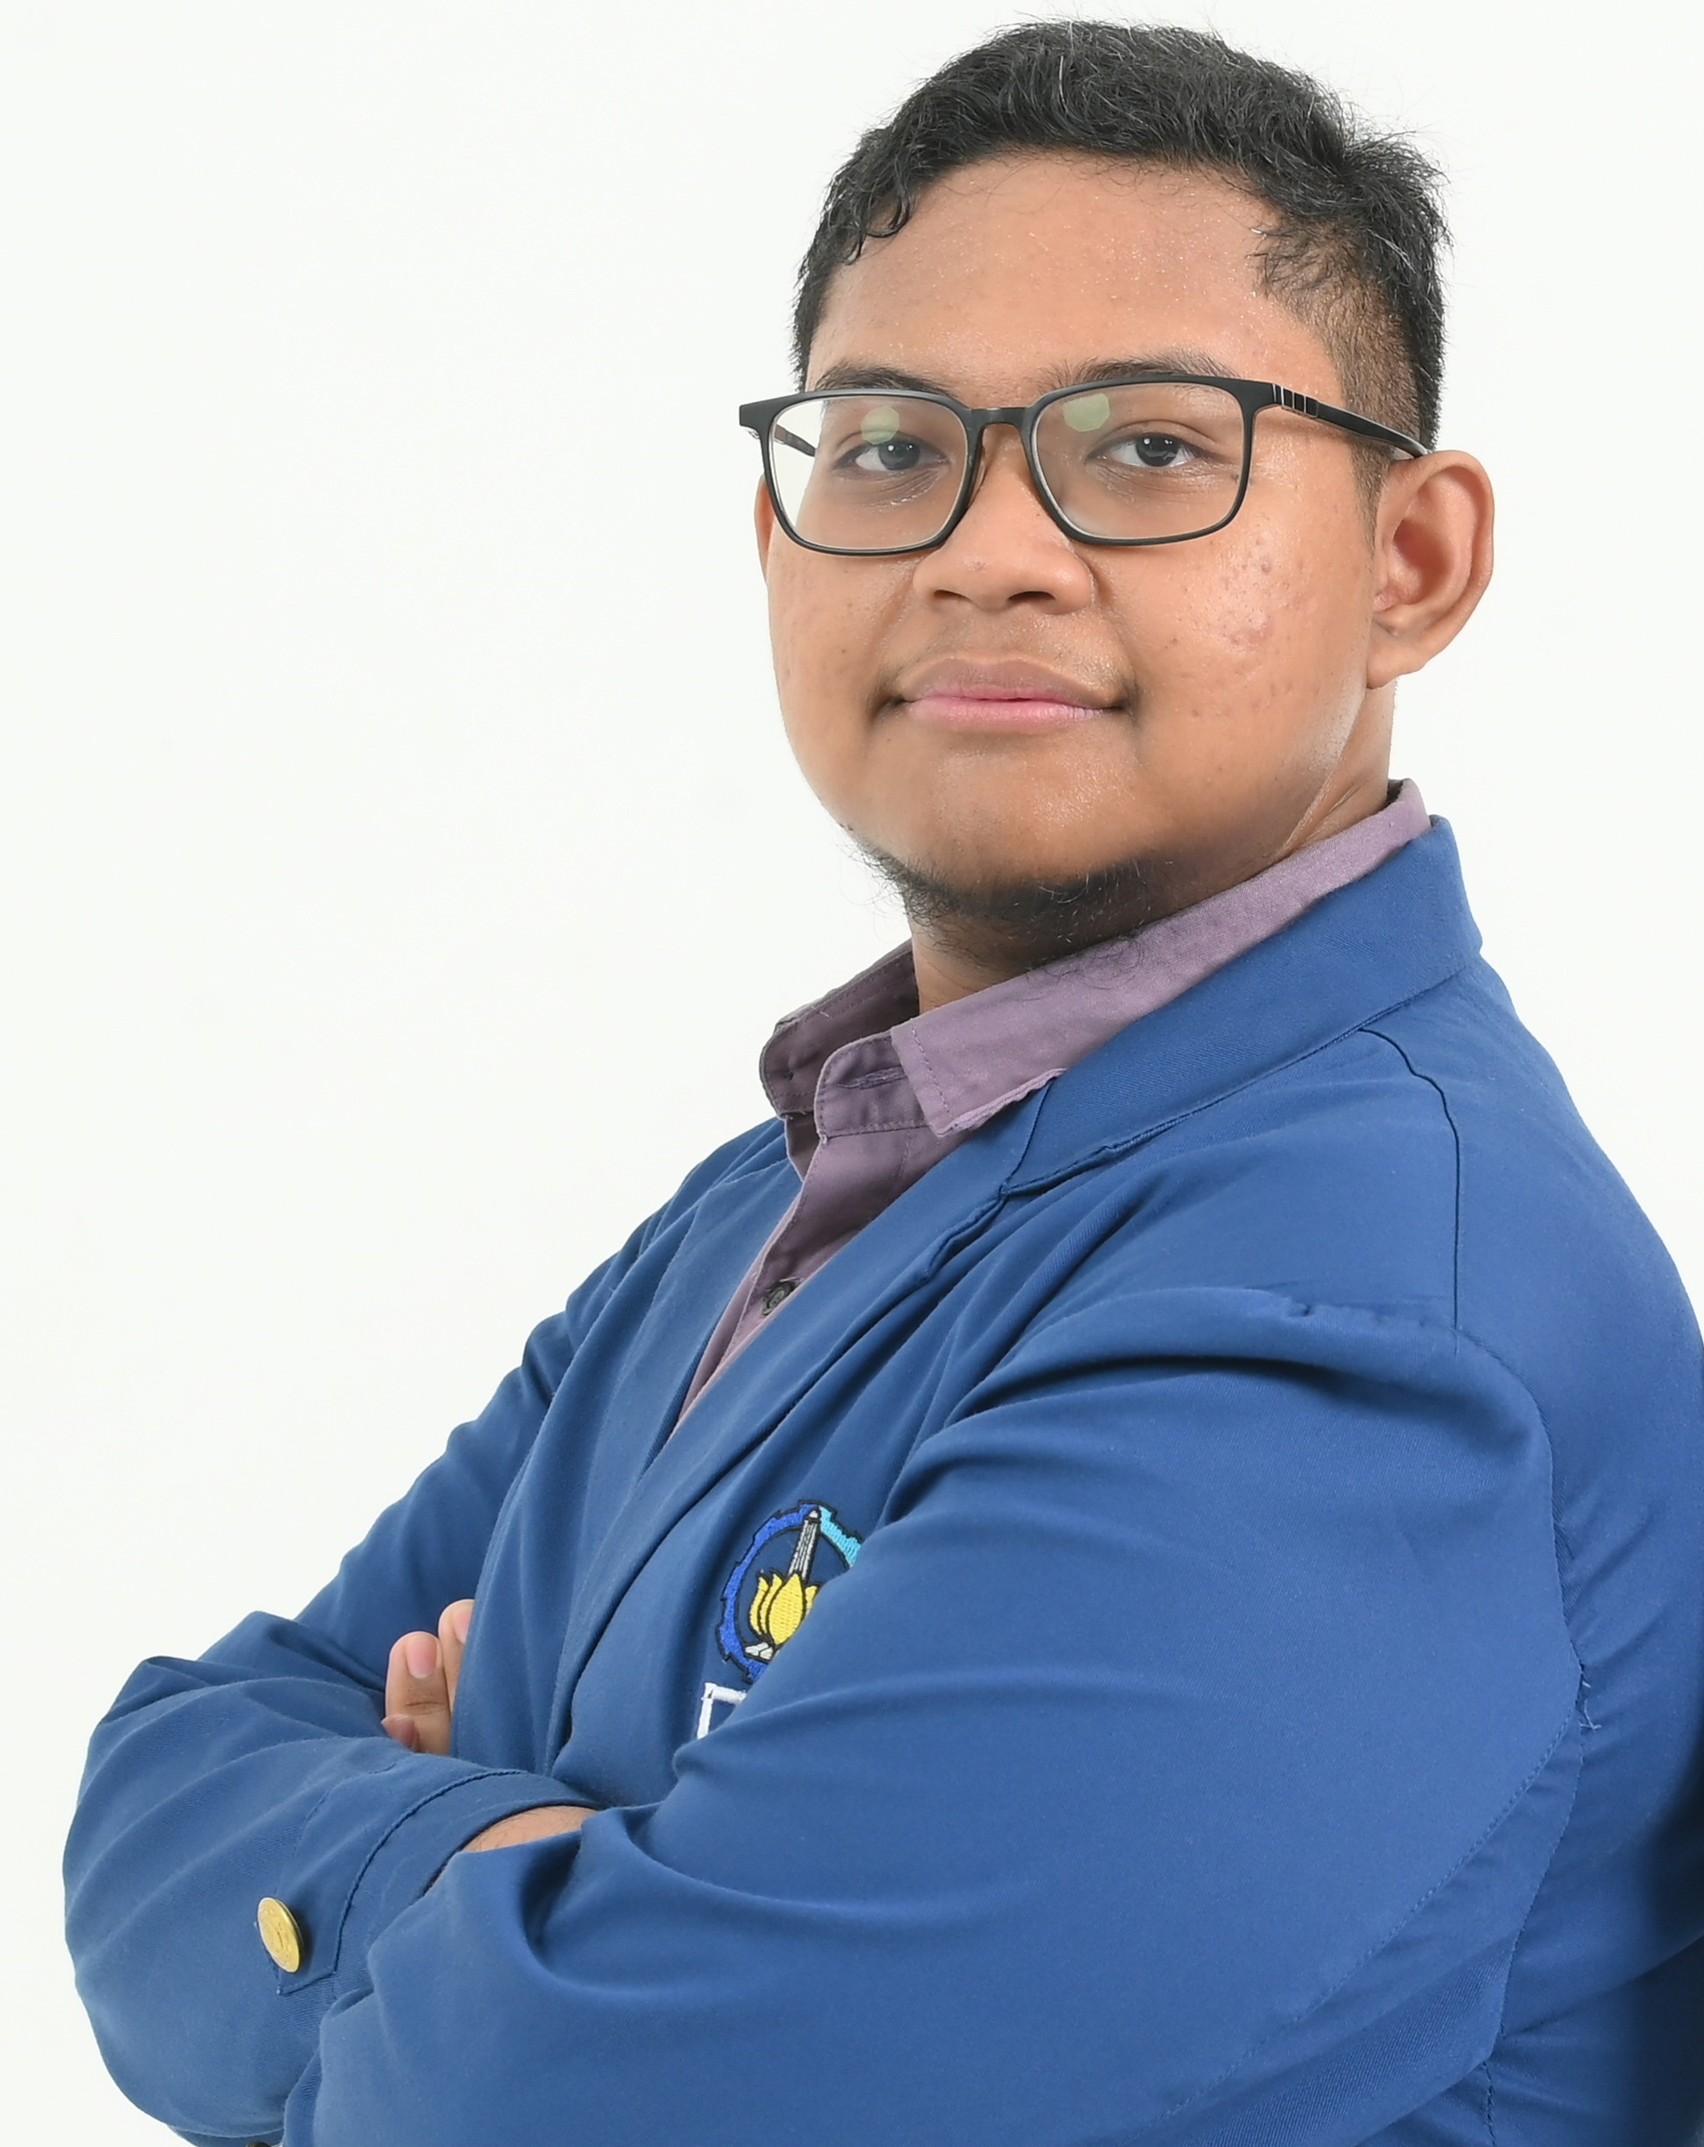
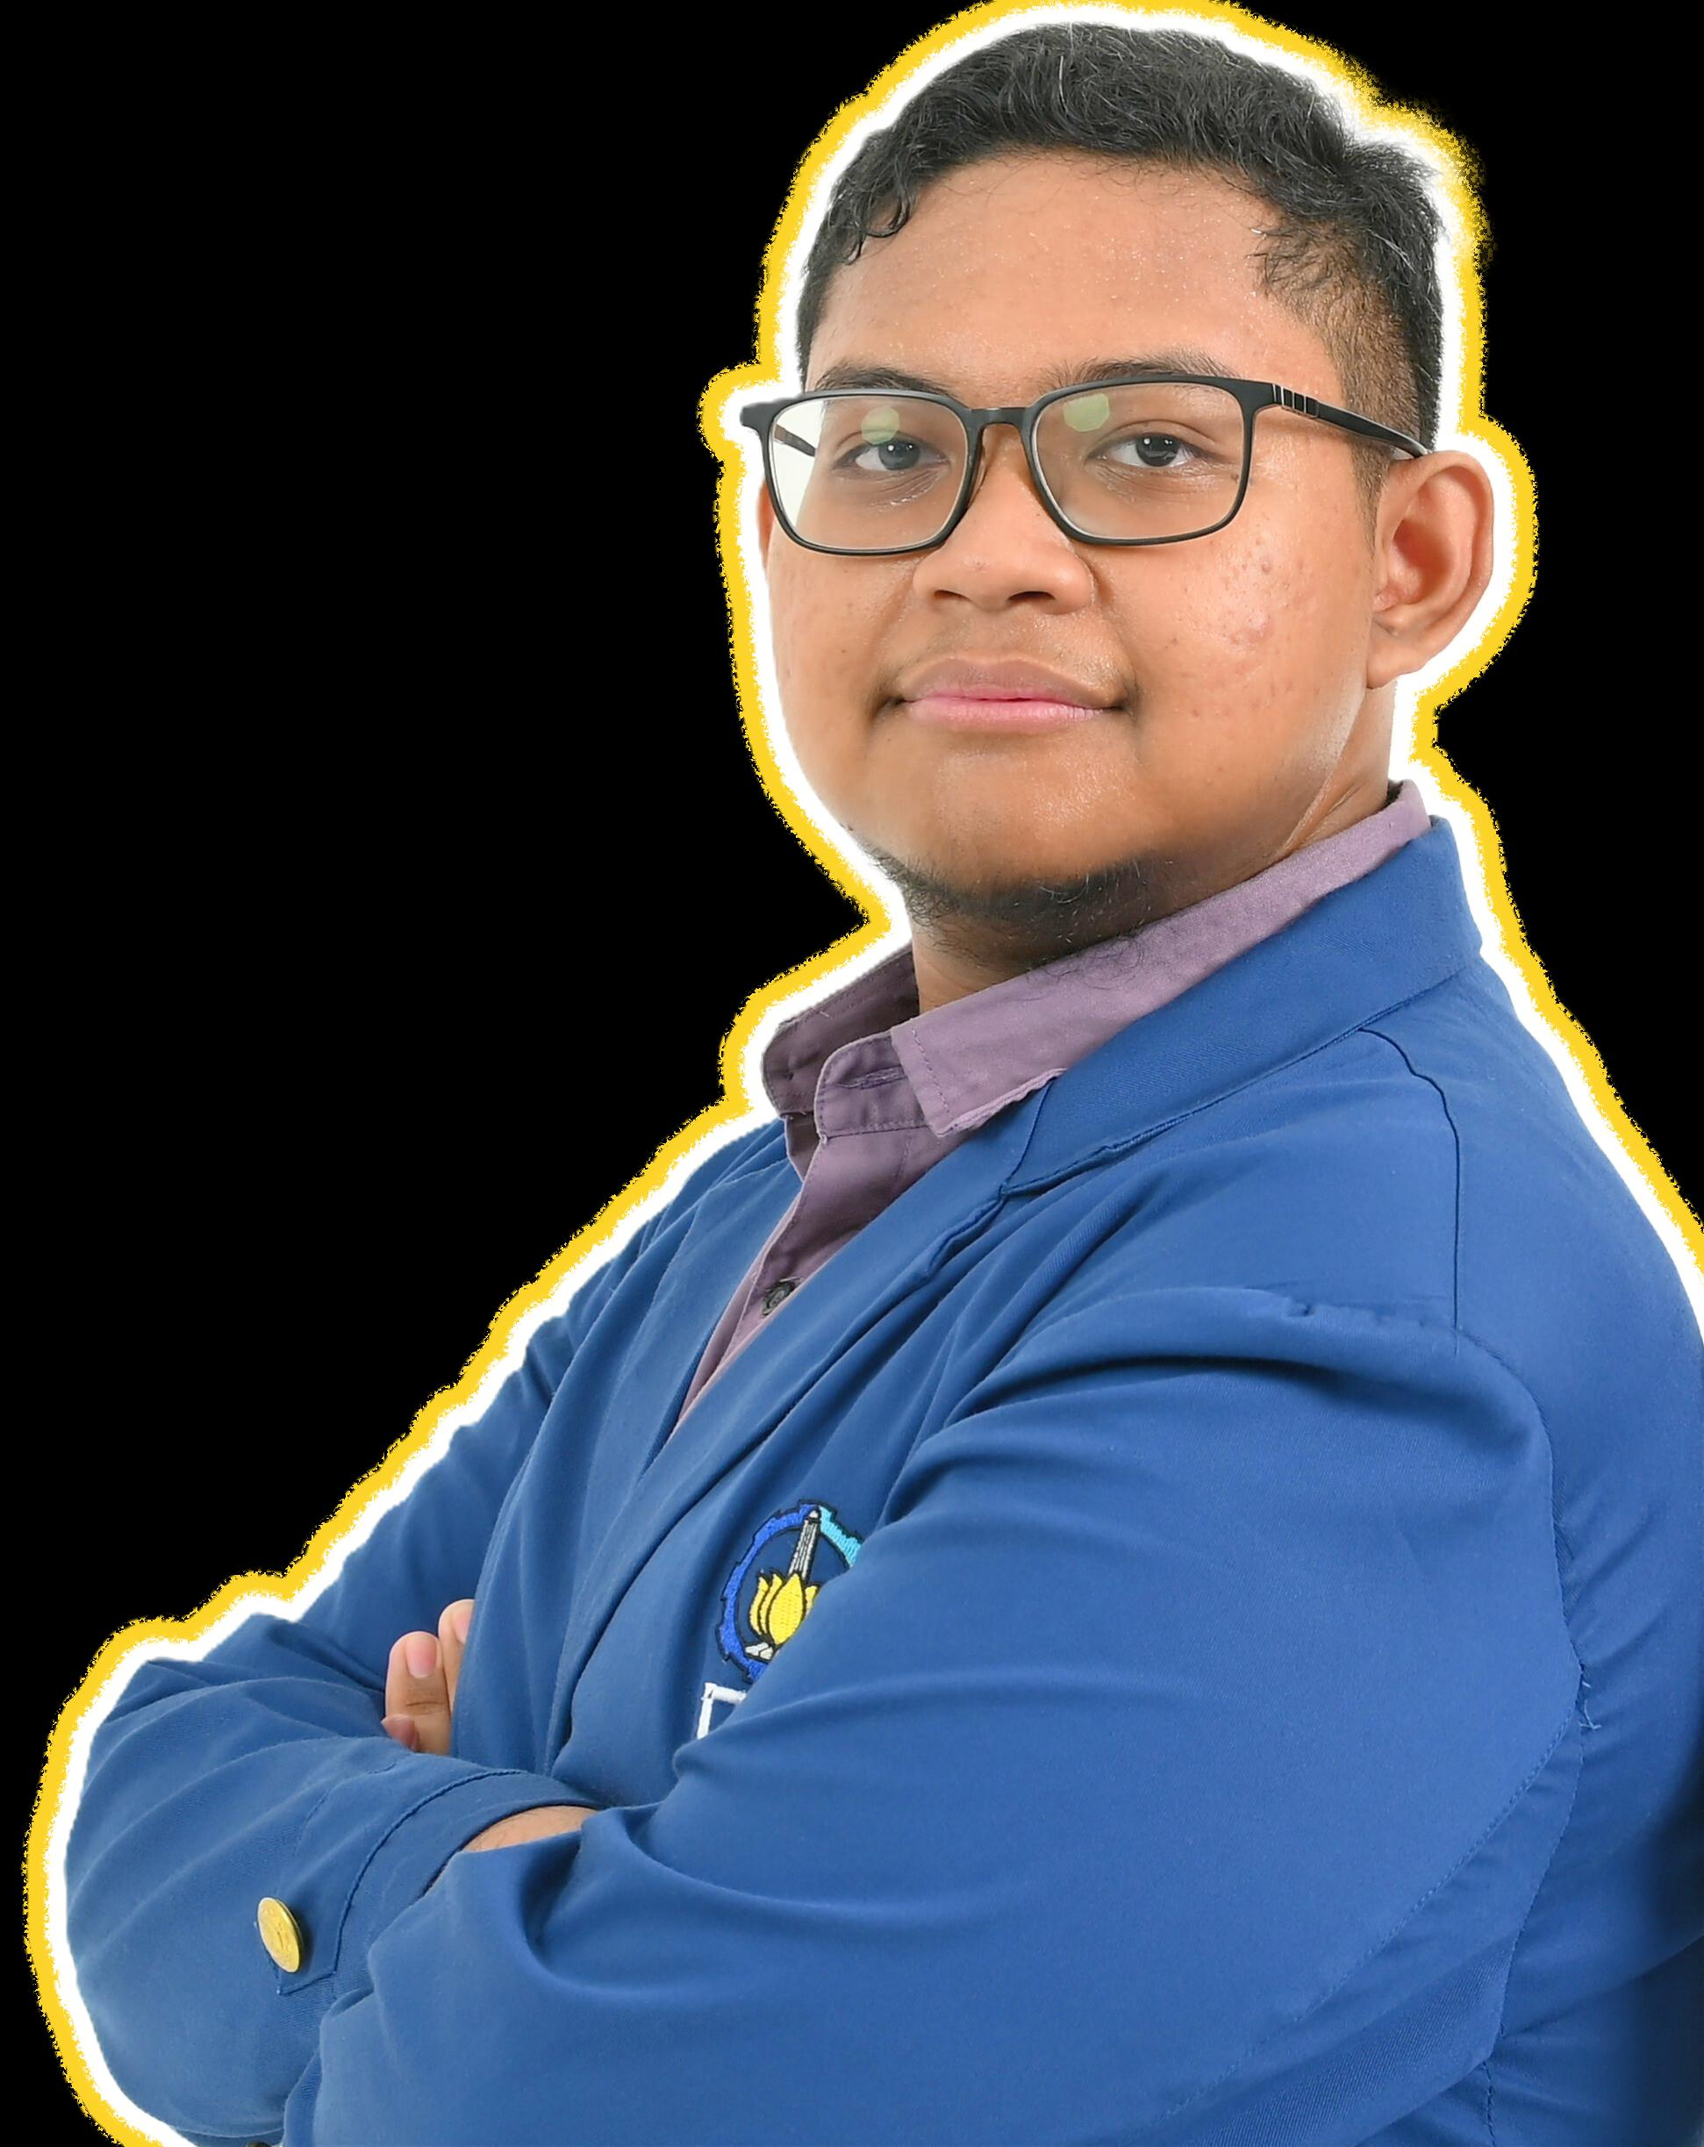
cv HTML update

diff --git a/index.html b/index.html
@@ -1,29 +1,104 @@
 <!DOCTYPE html>
 <html>
 <head>
-    <title>CV DianD</title>
+    <title>CV Muhammad Hadidan Nurhaunan</title>
+
+    <style>
+        body {
+            background-color: black;
+            font-family: Arial, sans-serif;
+            margin: 0;
+            padding: 40px 0;
+        }
+
+        .container {
+            width: 70%;
+            margin: auto;
+        }
+
+        .block {
+            padding: 20px;
+            margin-bottom: 20px;
+            border-radius: 10px;
+            color: white;
+        }
+
+        .block h2 {
+            margin-top: 0;
+        }
+
+        .header { background-color: #8e44ad; }
+        .tentang { background-color: #9b59b6; }
+        .pengalaman { background-color: #9b59b6; }
+        .apk { background-color: #9b59b6; }
+        .fp { background-color: #9b59b6; }
+        .impian { background-color: #9b59b6; }
+        .kontak { background-color: #9b59b6; }
+
+        img {
+            width: 150px;
+            border-radius: 50%;
+        }
+    </style>
 </head>
+
 <body>
 
-    <h1>Muhammad Hadidan Nurhaunan</h1>
-    <img src="foto.JPG" width="200">
+<div class="container">
 
-    <h2>Tentang Saya</h2>
-    <p>Saya adalah mahasiswa yang sedang belajar pemrograman web.</p>
+    <div class="block header">
+        <h1>Curriculum Vitae</h1>
+    
+    </div>
 
-    <h2>Aplikasi yang Pernah Dibuat</h2>
-    <ul>
-        <li>Final Project Travelling Kurir Problem untuk Mata Kuliah Teori Graf</li>
-        <li>Program BST Python</li>
-    </ul>
+    <div class="block tentang">
+        <h2>Muhammad Hadidan Nurhaunan</h2>
+        <p>Saya adalah mahasiswa semester 4 Institut Teknologi Sepuluh Nopember dengan jurusan Rekayasa 
+        Kecerdasan Buatan (RKA). Saya selalu senang untuk mempelajari hal baru, khususnya di dalam 
+        perhitungan seperti matematika dan lainnya. Saya juga selalu berfikir kreatif untuk mencari Solusi dari 
+        suatu masalah. Jika dihadirkan dengan masalah yang memerlukan skill yang tidak pernah saya pelajari, 
+        maka saya dengan senang hati akan mempelajarinya.</p>
+        <img src="foto.JPG" width="200">
+    </div>
 
-    <h2>Aplikasi Web yang Ingin Dibuat</h2>
-    <p>Saya ingin membuat aplikasi manajemen pengantaran berbasis web.</p>
+    <div class="block pengalaman">
+        <h2>Pengalaman</h2>
+        <ul>
+            <li>Pembina kelompok latihan gabungan PMR, Pramuka, dan Paskibra (November - Desember 2019)</li>
+            <li>Staff Mentor Inclenation 2025 (2025)</li>
+            <li>Staff Data Management, Divisi Data Center ITS Challenge 2025(2025)</li>
+            <li>Pembimbing OKKBK Departemen Informatika(2025)</li>
+            <li>Staff Departemen Research and Technology Kabinet Niat Baik HMTC(2026)</li>
+        </ul>
+    </div>
 
-    <h2>Pekerjaan Impian</h2>
-    <p>Software Engineer / AI Engineer</p>
+    <div class="block apk">
+        <h2>Aplikasi/Web yang Pernah Dibuat</h2>
+        <ul>
+            <li>Final Project Travelling Kurir Problem untuk Mata Kuliah Teori Graf(Web)</li>
+            <li>Game RPG berbasis Python untuk Mata Kuliah Pemrograman Berbasis Objek</li>
+        </ul>
+    </div>
 
-    <a href="blog.html">Kunjungi Blog Saya</a>
+    <div class="block fp">
+        <h2>Aplikasi Web yang Ingin Dibuat</h2>
+        <p>Saya ingin membuat aplikasi game yang dapat membantu belajar berbasis web.</p>
+    </div>
+
+    <div class="block impian">
+        <h2>Pekerjaan Impian</h2>
+        <p>AI Engineer / Game Developer</p>
+    </div>
+
+    <div class="block kontak">
+        <h2>Kontak yang Tersedia</h2>
+        <p>Email: hadidan@gmail.com</p>
+        <p>Phone: +62 812 1421 1456</p>
+        <p>LinkedIn: https://www.linkedin.com/in/muhammad-hadidan-nurhaunan-a6a436322/</p>
+        <p>GitHub: https://github.com/DianDzzz</p>
+    </div>
+
+</div>
 
 </body>
 </html>

diff --git a/README.md b/README.md
@@ -1,3 +1,4 @@
-# CV-HTML-Hadidan-016
-Tugas HTML Muhammad Hadidan Nurhaunan 
-5054241016
+# Deskripsi Singkat
+Tugas CV HTML Muhammad Hadidan Nurhaunan 
+
+NRP: 5054241016
